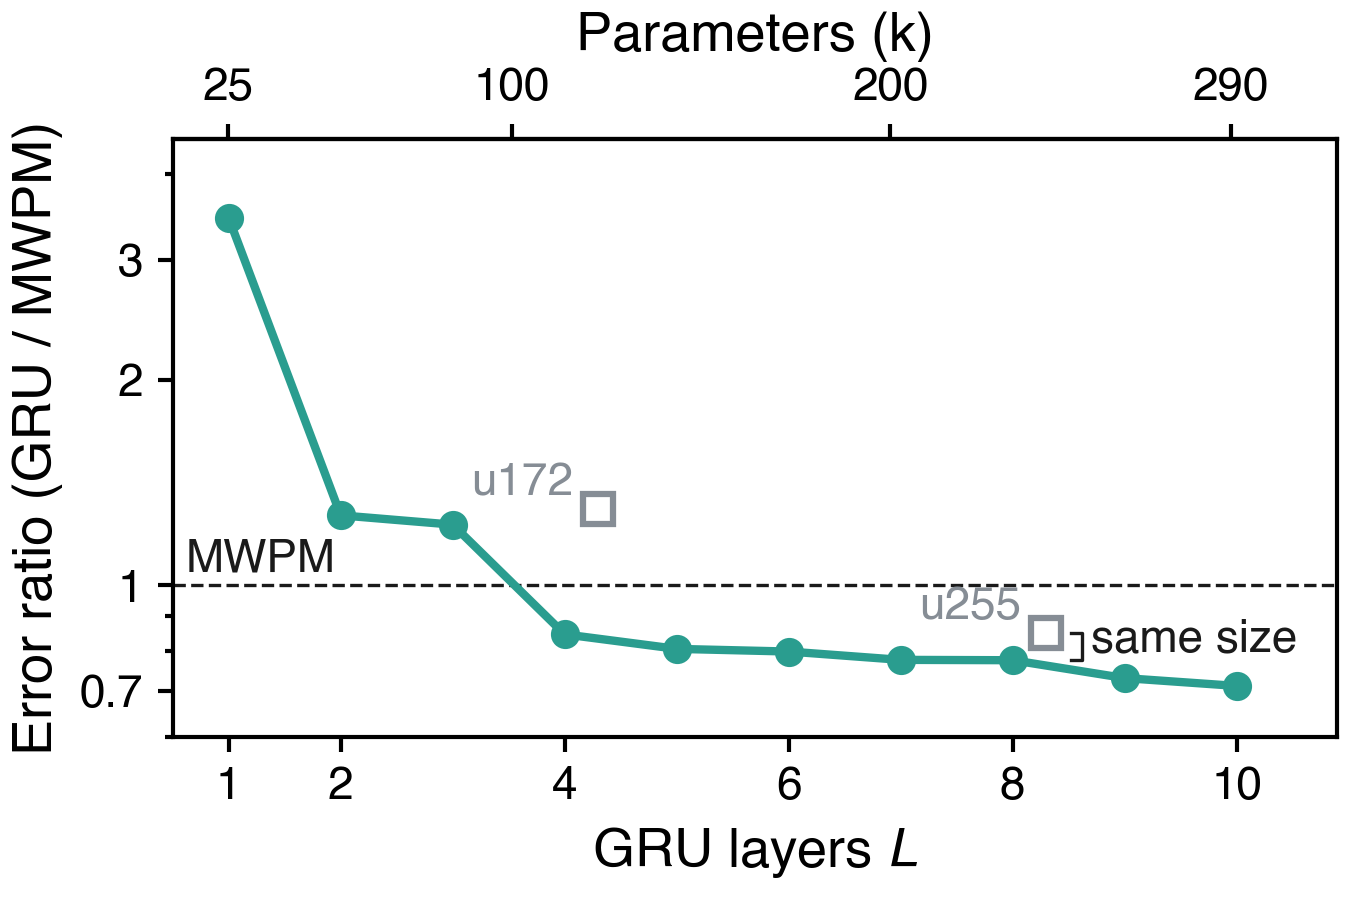
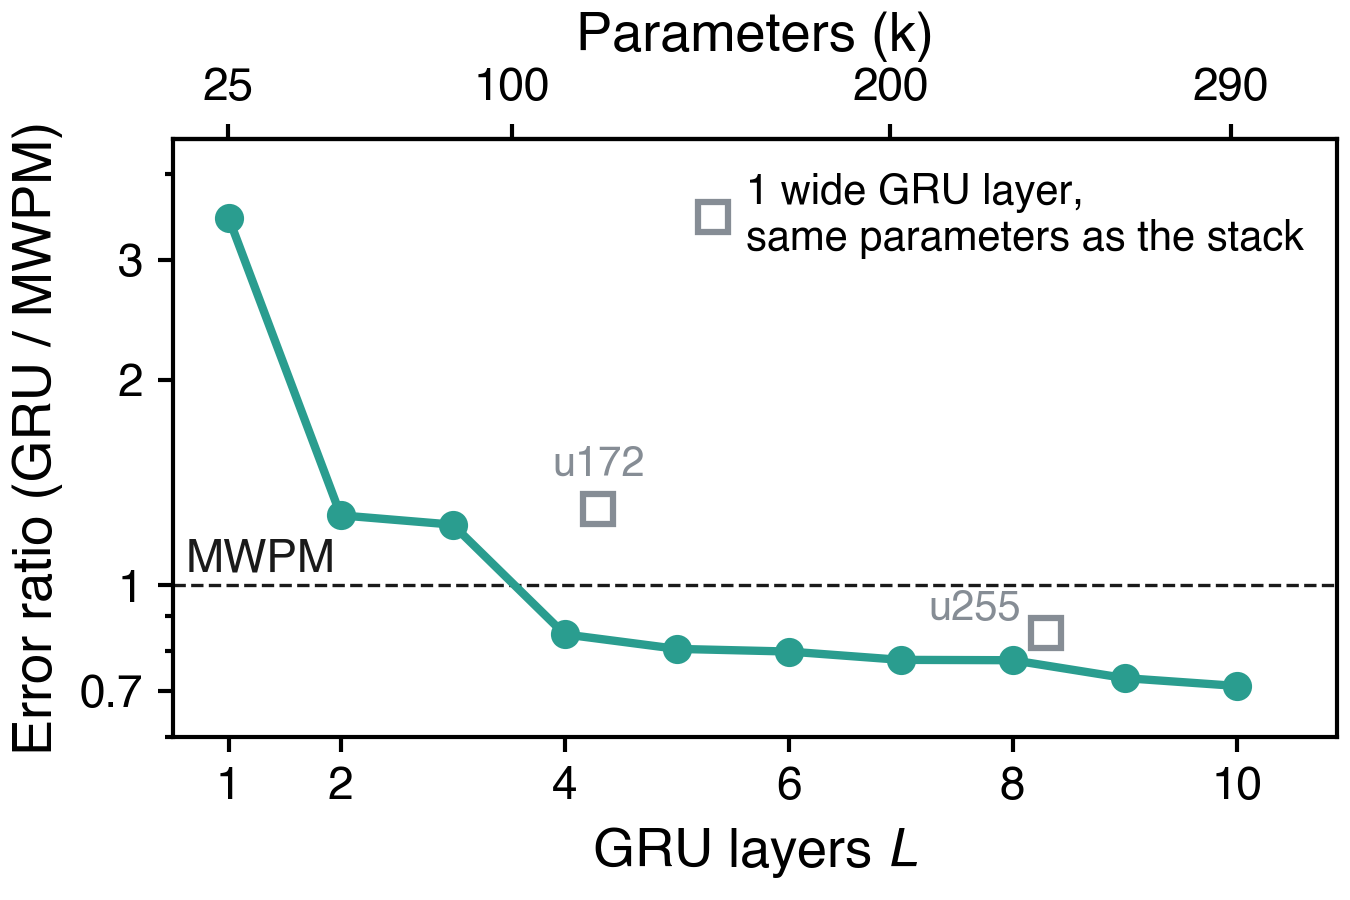
fig7_depth: proper legend, 10 pt point labels

diff --git a/figures/fig7_depth.py b/figures/fig7_depth.py
@@ -1,5 +1,5 @@
 # Created: 2026-10-28
-# Last modified: 2026-10-28 (small-panel font sizes, same-size bracket, MWPM label left, sentence-case labels)
+# Last modified: 2026-10-28 (small-panel font sizes, MWPM label left, sentence-case labels, matched-run legend instead of bracket, 10 pt point labels)
 # Poster version of depth_scaling.py: d = 7, p = 0.004, u70 stacks L = 1-10 and the single-layer
 # u172 / u255 runs matched to L = 4 / 8 in parameters. Eval-block ratios to MWPM on the same shots.
 #   python figures/fig7_depth.py
@@ -21,7 +21,7 @@ MATCH_OFFSET = 0.3                    # matched squares drawn just right of thei
 FRAME_IN = (4.5, 3.0)
 MARKER_MS = 6
 LABEL_PT, TICK_PT, NOTE_PT = 13, 11, 11   # smaller than poster_style: this panel is 4.5 in wide
-BRACKET_X = 8.62
+POINT_PT = 10
 
 
 def load():
@@ -44,18 +44,16 @@ def plot(rows):
         x = r["L"] + MATCH_OFFSET
         ax.errorbar(x, r["ratio"], yerr=r["err"], fmt="s", ms=MARKER_MS + 1, mfc="white", mew=1.5,
                     color=poster_style.NEUTRAL, elinewidth=1, zorder=3)
-        # upper left of the square: above it would touch the MWPM line, right of u255 is the bracket
-        ax.annotate(r["Width"], (x, r["ratio"]), xytext=(-MARKER_MS, 1), textcoords="offset points",
-                    ha="right", va="bottom", color=poster_style.NEUTRAL, fontsize=NOTE_PT)
+        # u255 sits just under the MWPM line, so its label goes to the left, raised to clear the L = 8 marker
+        above = r["Width"] == "u172"
+        ax.annotate(r["Width"], (x, r["ratio"]), xytext=(0, MARKER_MS) if above else (-MARKER_MS, 1),
+                    textcoords="offset points", ha="center" if above else "right",
+                    va="bottom", color=poster_style.NEUTRAL, fontsize=POINT_PT)
 
-    l8 = next(r for r in stack if r["L"] == 8)
-    u255 = next(r for r in rows if r["Width"] == "u255")
-    tick = 0.1
-    ax.plot([BRACKET_X - tick, BRACKET_X, BRACKET_X, BRACKET_X - tick],
-            [l8["ratio"], l8["ratio"], u255["ratio"], u255["ratio"]], color=poster_style.INK, lw=0.8)
-    # centred on the bracket's upper half so the text clears the L = 9 marker below it
-    ax.text(BRACKET_X + 0.08, (l8["ratio"] * u255["ratio"] ** 3) ** 0.25, "same size", ha="left", va="center",
-            fontsize=NOTE_PT, color=poster_style.INK)
+    key = plt.Line2D([], [], ls="none", marker="s", ms=MARKER_MS + 1, mfc="white", mew=1.5,
+                     color=poster_style.NEUTRAL)
+    ax.legend([key], ["1 wide GRU layer,\nsame parameters as the stack"], loc="upper right",
+              frameon=False, fontsize=10, handletextpad=0.3, handlelength=1.0, borderaxespad=0.4)
 
     ax.axhline(1.0, color=poster_style.INK, lw=0.8, ls="--", zorder=1)
     ax.annotate("MWPM", (0, 1.0), xycoords=ax.get_yaxis_transform(), xytext=(3, 1),
